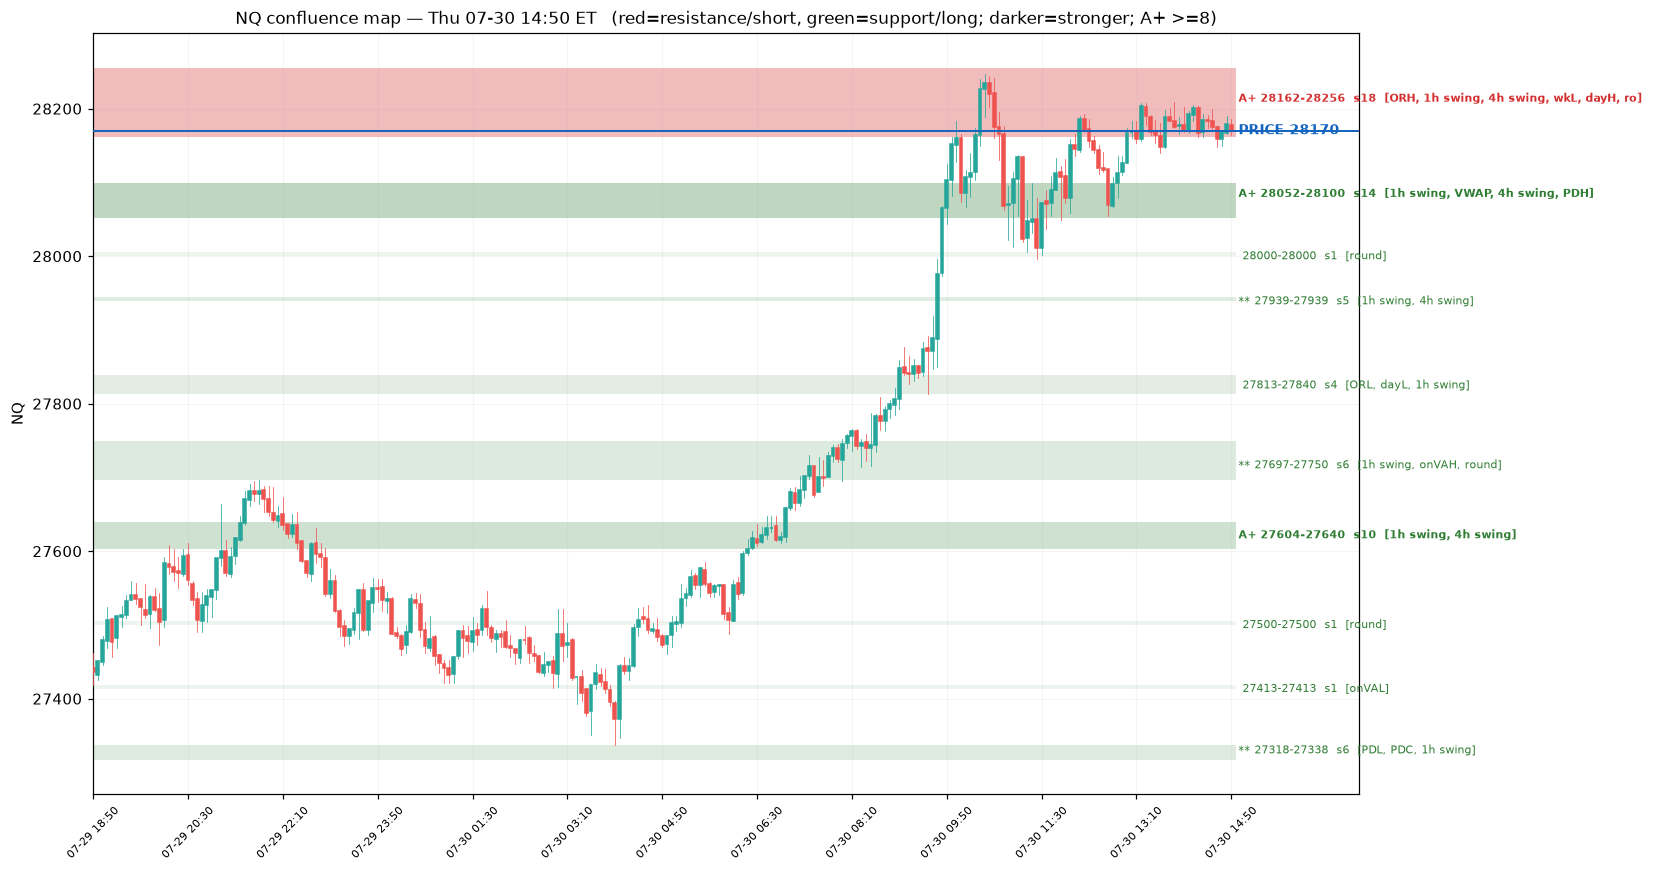
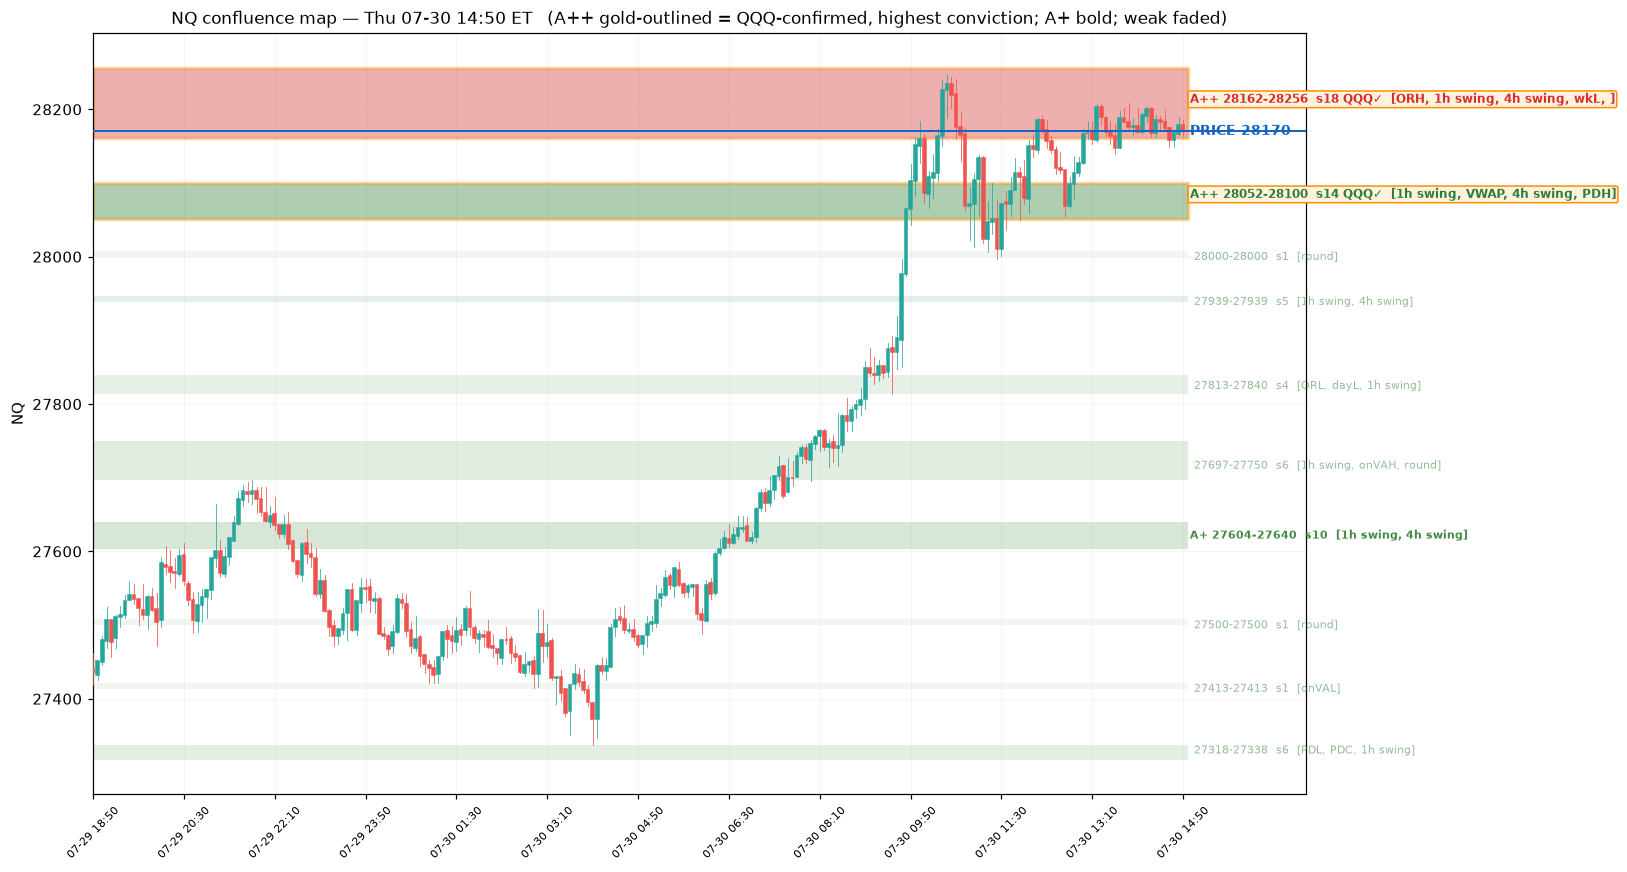
confluence chart: draw A++ (QQQ-confirmed) zones gold-outlined + QQQ-check label; fade weak levels
Claude-Session: https://claude.ai/code/session_016aQdjV8pEkud2m7UoLztFR

diff --git a/scripts/confluence.py b/scripts/confluence.py
@@ -179,14 +179,19 @@ def main():
         print(f"  [{g}] SHORT off resistance {sa[1]:.0f}-{sa[2]:.0f} (score {sa[3]:.1f}) -> target {sb[2]:.0f}" if sb else f"  [{g}] SHORT off {sa[1]:.0f}-{sa[2]:.0f}")
     if not sa and not sb: print("  none in range - stand aside")
 
-    _chart(m5, above, below, px, now, zi)
+    _chart(m5, above, below, px, now, zi, conf_prices, confirmed)
 
 
-def _chart(m5, above, below, px, now, zi):
+def _chart(m5, above, below, px, now, zi, conf_prices=None, confirmed=None):
     import matplotlib
     matplotlib.use("Agg")
     import matplotlib.pyplot as plt
     from matplotlib.patches import Rectangle
+
+    conf_prices = conf_prices or set()
+
+    def is_conf(lo, hi):
+        return any(lo - 20 <= cp <= hi + 20 for cp in conf_prices)
 
     plot = m5[m5.index >= now - pd.Timedelta(hours=20)]
     fig, ax = plt.subplots(figsize=(15, 8))
@@ -196,22 +201,30 @@ def _chart(m5, above, below, px, now, zi):
         ax.add_patch(Rectangle((i - 0.3, min(r["open"], r["close"])), 0.6,
                                abs(r["close"] - r["open"]) + 0.2, facecolor=c, edgecolor=c, zorder=4))
     n = len(plot)
-    # confluence zones as shaded bands, colored by side, intensity by score
     for price, lo, hi, w, labs in zi:
         if hi < plot["low"].min() - 100 or lo > plot["high"].max() + 100:
             continue
         red = price > px
         col = "#d32f2f" if red else "#2e7d32"
-        alpha = min(0.32, 0.06 + w / 60)
-        band = max(hi - lo, 6)
-        ax.add_patch(Rectangle((0, lo), n, band, facecolor=col, alpha=alpha, edgecolor="none", zorder=1))
-        star = "A+" if w >= 8 else "**" if w >= 5 else ""
-        ax.text(n + 0.5, price, f"{star} {lo:.0f}-{hi:.0f}  s{w:.0f}  [{labs[:38]}]",
-                color=col, va="center", fontsize=7.5, fontweight="bold" if w >= 8 else "normal")
+        conf = w >= 8 and is_conf(lo, hi)
+        band = max(hi - lo, 8)
+        if conf:  # A++ (QQQ-confirmed): solid strong band + gold border
+            ax.add_patch(Rectangle((0, lo - 1), n, band + 2, facecolor=col, alpha=0.38,
+                                   edgecolor="#ff8f00", lw=2.2, zorder=2))
+            ax.text(n + 0.5, price, f"A++ {lo:.0f}-{hi:.0f}  s{w:.0f} QQQ✓  [{labs[:30]}]",
+                    color=col, va="center", fontsize=8, fontweight="bold",
+                    bbox=dict(boxstyle="round,pad=0.15", fc="#fff3e0", ec="#ff8f00", lw=1))
+        else:
+            alpha = min(0.30, 0.05 + w / 70)
+            ax.add_patch(Rectangle((0, lo), n, band, facecolor=col, alpha=alpha, edgecolor="none", zorder=1))
+            star = "A+" if w >= 8 else ""
+            ax.text(n + 0.5, price, f"{star} {lo:.0f}-{hi:.0f}  s{w:.0f}  [{labs[:34]}]",
+                    color=col, va="center", fontsize=7, fontweight="bold" if w >= 8 else "normal",
+                    alpha=0.9 if w >= 8 else 0.5)
     ax.axhline(px, color="#1565c0", lw=1.3, zorder=5)
     ax.text(n + 0.5, px, f"PRICE {px:.0f}", color="#1565c0", va="center", fontsize=9, fontweight="bold")
     ax.set_title(f"NQ confluence map — {now:%a %m-%d %H:%M} ET   "
-                 f"(red=resistance/short, green=support/long; darker=stronger; A+ >=8)", fontsize=11)
+                 f"(A++ gold-outlined = QQQ-confirmed, highest conviction; A+ bold; weak faded)", fontsize=11)
     tk = list(range(0, n, max(1, n // 12)))
     ax.set_xticks(tk); ax.set_xticklabels([plot.index[i].strftime("%m-%d %H:%M") for i in tk], rotation=45, fontsize=7.5)
     ax.set_xlim(0, n + 26); ax.set_ylabel("NQ"); ax.grid(alpha=0.12, zorder=0)
